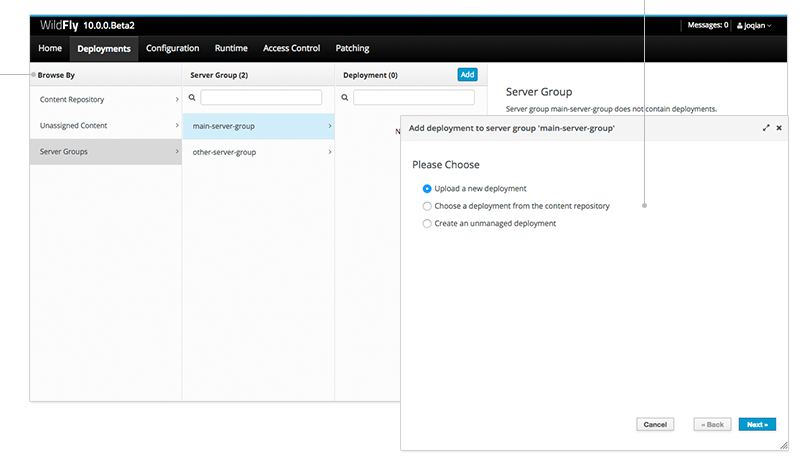
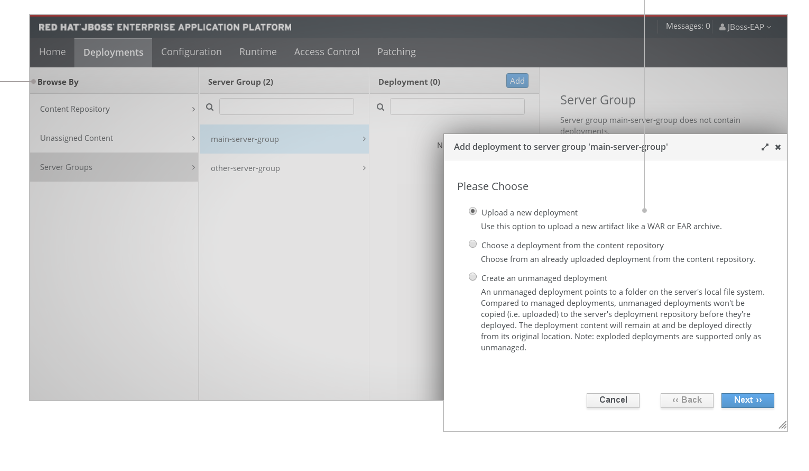
[JBEAP-1975, HAL-1103] - Take a tour wizard contains screenshots with wrong branding

diff --git a/less/styles.less b/less/styles.less
@@ -173,12 +173,12 @@
         width: 330px;
       }
       &.text-2 {
-        top: 165px;
+        top: 195px;
         left: 20px;
         width: 205px;
       }
       &.text-3 {
-        top: 315px;
+        top: 335px;
         left: 20px;
         width: 205px;
       }
@@ -327,12 +327,12 @@
         width: 330px;
       }
       &.text-2 {
-        top: 165px;
-        left: 20px;
+        top: 195px;
+        left: 70px;
         width: 205px;
       }
       &.text-3 {
-        top: 315px;
+        top: 345px;
         left: 20px;
         width: 205px;
       }
@@ -364,7 +364,7 @@
       &.text-1 {
         text-align: right;
         top: 0;
-        left: 80px;
+        left: 120px;
         width: 230px;
       }
       &.text-2 {
